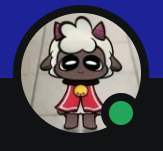
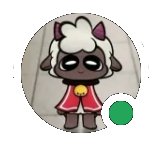
ca prend forme

diff --git a/style.css b/style.css
@@ -1,5 +1,5 @@
 div {
-    border : 2px solid red;
+    border : 0px solid red;
 }
 
 object {
@@ -7,25 +7,44 @@ object {
     height : 100%;
 }
 
-.item0 { grid-area: image; }
-.item1 { grid-area: header; }
-.item2 { grid-area: menu; }
-.item3 { grid-area: main; }
-.item4 { grid-area: right; }
-.item5 { grid-area: footer; }
-
-.grid-container {
-    display: grid;
-    grid-template-areas:
-    'image header header header header header'
-    'menu main main main right right'
-    'menu footer footer footer footer footer';
-
-}
-
-.grid-container > div {
-    background-color: rgba(255, 255, 255, 0.8);
+.centered {
     text-align: center;
-    padding: 20px 0;
-    font-size: 30px;
 }
+
+html {
+    height: 100%;
+}
+
+.header {
+    position: absolute;
+    top: 5px;
+    right: 5px;
+    left: 5px;
+    height: 100px;
+    background-color : rgb(200,200,200);
+    border-radius : 20px;
+}
+
+.liste {
+    --gap: 10px;
+    position: absolute;
+    top: calc(105px + var(--gap));
+    right: 5px;
+    width: calc(20% - calc(var(--gap)/2));
+    bottom: 5px;
+    background-color : rgb(200,200,200);
+    border-radius : 5px;
+}
+
+.main {
+    --gap: 10px;
+    position: absolute;
+    top: calc(105px + var(--gap));
+    left: 5px;
+    right: calc(calc(20% + 5px) + calc(var(--gap)/2)) ;
+    bottom: 5px;
+    background-color : rgb(200,200,200);
+    border-radius : 5px;
+    padding : 20px;
+}
+

diff --git a/index.html b/index.html
@@ -9,18 +9,10 @@
   </head>
   <script src=index.js></script>
   <body onload="main()">
-    <div class="main">
-        <div class="article"></div>
-    </div>
+  <div class="header" id="header"></div>
+  <div class="liste" id="liste"></div>
+  <div class="main" id="main"></div>
 
-  <div class="grid-container">
-    <div class="item0"><img src="pictures/pfp.png" alt="Grizy dans son habitat naturel"></div>
-    <div class="item1" id="header">Header</div>
-    <div class="item2" id="liste">Menu</div>
-    <div class="item3" id="principal">Main</div>
-    <div class="item4">Right</div>
-    <div class="item5">Footer</div>
-  </div>
   </body>
 </html>
 

diff --git a/header.html b/header.html
@@ -1,11 +1,21 @@
 <!DOCTYPE html>
 <link rel=stylesheet href=style.css>
 <style>
-    .title-div{
-        float: right;
-        right : 2%;
-        width: 100%;
-        height: 80px;
-    }
+.header-pic {
+    position: absolute;
+    width: 15%;
+    top: 0px;
+    left: 0px;
+    bottom : 5px;
+    border-radius : 20px;
+}
+
+.header-title {
+    position: absolute;
+    top: 0px;
+    left: 15%;
+    right: 5%;
+}
 </style>
-<h1>le wiki officiel de Wikiman</h1>
+<div class="header-title"><h1>le wiki officiel de Wikiman</h1></div>
+<div class="header-pic"><img height=100% src="pictures/pfp.png" alt="Grizy dans son habitat naturel"></div>

diff --git a/index.js b/index.js
@@ -5,6 +5,9 @@ function load_html_into(id,path) {
 function main(){
     load_html_into("liste","articles.html");
     load_html_into("header","header.html");
-    load_html_into("principal","proprietes/slip.html");
-    console.log("uwu test");
+    load_html_into("main","articles/slip.html");
+    setTimeout(function(){
+                load_html_into("main","articles/chat.html");
+    }, 2000);
+
 }

diff --git a/articles/slip.html b/articles/slip.html
@@ -1,0 +1,12 @@
+<!DOCTYPE html>
+<link rel=stylesheet href=../style.css>
+<h1 class="centered">le magnifique slip sardoche de grizy</h1>
+<p>
+grizy est l'heureux propriétaire d'un magnifique slip sardoche<br>
+c'est son bien le plus sacré...<br>
+
+<br>
+<img src="../pictures/slip.png" alt="le potentiel slip de grizy">
+<br>
+<i>voici le potentiel slip de Grizy celon plusieurs sources</i>
+</p>

diff --git a/articles/chat.html b/articles/chat.html
@@ -1,0 +1,9 @@
+<!DOCTYPE html>
+<link rel=stylesheet href=../style.css>
+<p>
+Grizy a un chat, c'est <b>LITERALEMENT HITLER!!!!!!</b>
+
+</p>
+<h2>PREUVE</h2>
+<img width=80% src="../pictures/hitler1.jpg" alt="chat malicieu">
+<img width=80% src="../pictures/hitler2.jpg" alt="mleerppp">

diff --git a/articles.html b/articles.html
@@ -1,2 +1,8 @@
 <!DOCTYPE html>
-<p>ceci est la liste des articles uwuu</p>
+ <ul>
+    <li>page principale</li>
+    <li>slip</li>
+    <li>homosexualité</li>
+    <li>pokemon go</li>
+    <li>chat (hitler)</li>
+</ul>
